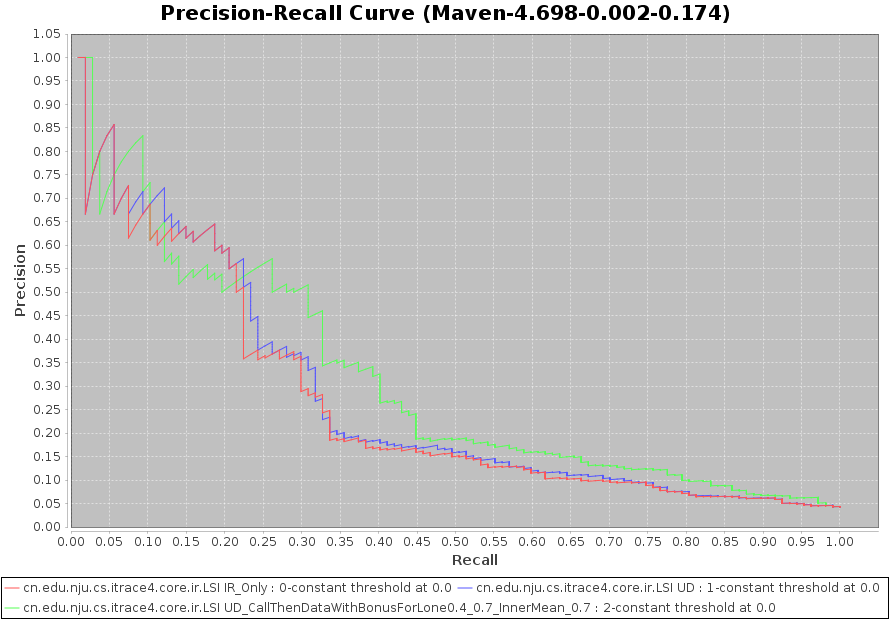
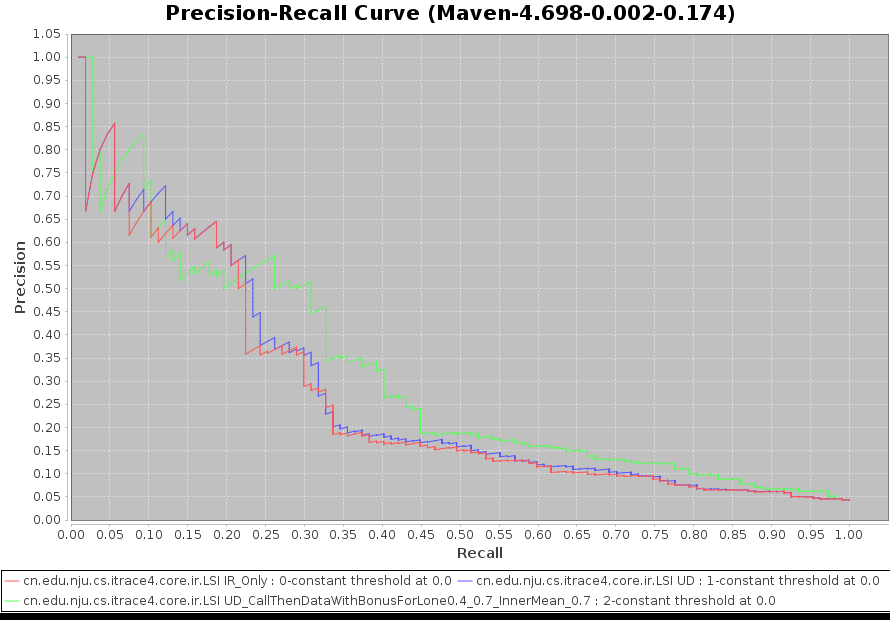
stable sort

Changed region(s): [[0.0, 0.0613, 1.0, 1.0], [0.182, 0.0, 0.8191, 0.0306]]

diff --git a/src/cn/edu/nju/cs/itrace4/demo/algo/outerVertex/process/UD_CallSubGraphWithBonusForLone.java b/src/cn/edu/nju/cs/itrace4/demo/algo/outerVertex/process/UD_CallSubGraphWithBonusForLone.java
@@ -897,7 +897,8 @@ public class UD_CallSubGraphWithBonusForLone implements CSTI{
 			List<Integer> loneVertexList = fillWithLoneSet(loneVertexSet);
 			Collections.sort(loneVertexList,new SortVertexByScore(vertexIdNameMap,matrix,req));
 			
-			for(int loneVertex:loneVertexList){
+			//for(int loneVertex:loneVertexList){////
+		    for(int loneVertex:loneVertexSet){////
 				String loneVertexName = vertexIdNameMap.get(loneVertex);
 				if(hasContainedThisLink(matrix_ud, req, loneVertex)){///////the relative lone vertex is change.
 					continue;

diff --git a/src/cn/edu/nju/cs/itrace4/demo/algo/outerVertex/process/UD_DataSubGraphWithBonusForLoneWithTrans.java b/src/cn/edu/nju/cs/itrace4/demo/algo/outerVertex/process/UD_DataSubGraphWithBonusForLoneWithTrans.java
@@ -89,6 +89,7 @@ public class UD_DataSubGraphWithBonusForLoneWithTrans implements CSTI{
 			List<Integer> loneVertexList = fillWithLoneSet(loneVertexSet);
 			Collections.sort(loneVertexList,new SortVertexByScore(vertexIdNameMap,matrix,req));
 			
+			//for(int loneVertex:loneVertexList){
 			for(int loneVertex:loneVertexSet){
 				String loneVertexName = vertexIdNameMap.get(loneVertex);
 				double sum = 0;

diff --git a/src/cn/edu/nju/cs/itrace4/demo/getPaperData/GetAPAndMAPAllPercent.java b/src/cn/edu/nju/cs/itrace4/demo/getPaperData/GetAPAndMAPAllPercent.java
@@ -22,6 +22,6 @@ public class GetAPAndMAPAllPercent {
 	
 	public static void main(String[] args) throws InterruptedException {
 		GetAPAndMAPAllPercent batchTool = new GetAPAndMAPAllPercent();
-		batchTool.bactchProcess("./paperData");
+		batchTool.bactchProcess("./newPaperData");
 	}
 }
